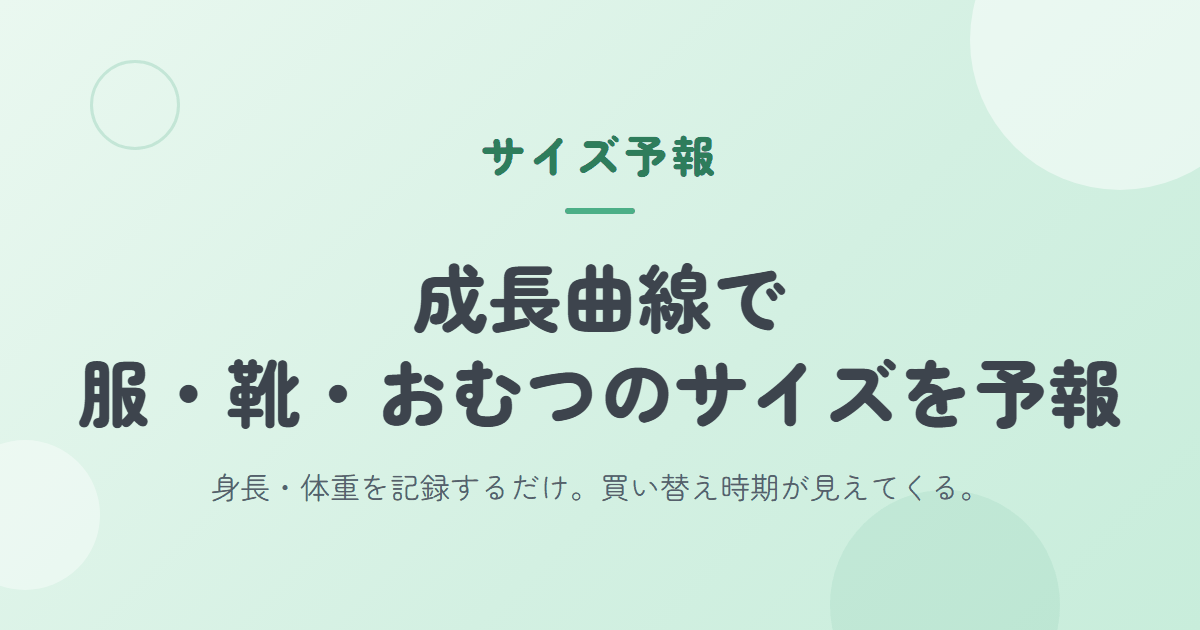
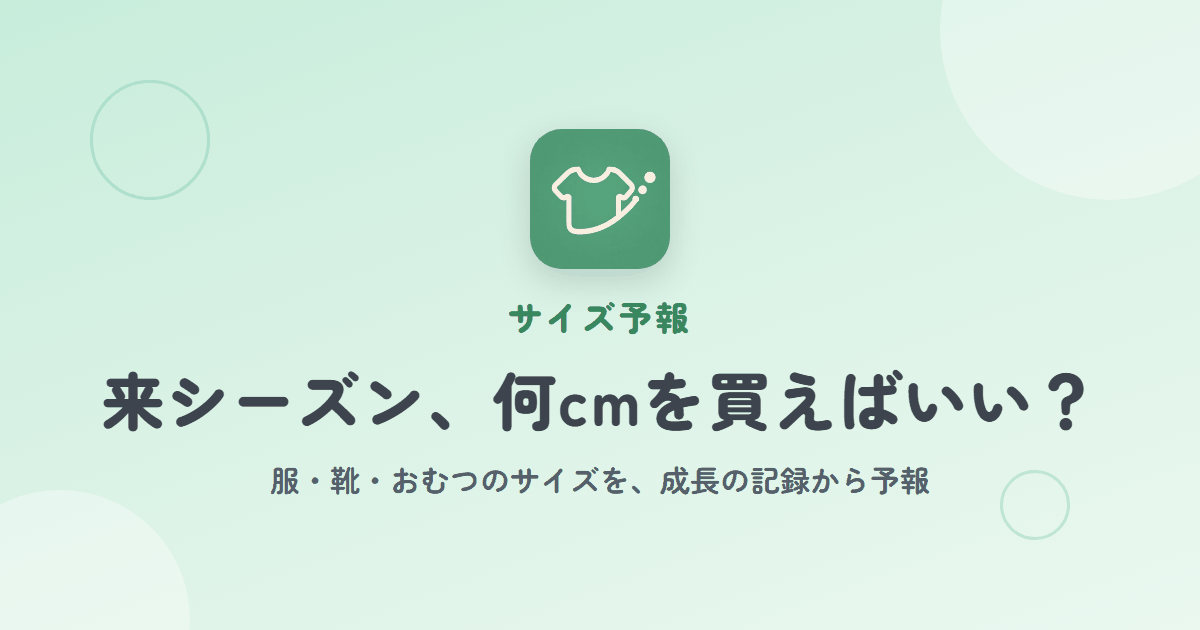
ホーム画面追加とリンク共有時の見え方を整備
- apple-touch-icon（180px）とWebマニフェストを追加し、iOS/Androidで
  ホーム画面に追加したときにアプリと同じアイコン・「サイズ予報」の名前が
  出るようにする（theme-colorでブラウザUIもミント色に）
- OGP画像を新しい訴求コピー（来シーズン、何cm？）とアプリアイコン入りで
  作り直し、生成テンプレート og-image.html を保存

diff --git a/docs/store-assets/og-image.html b/docs/store-assets/og-image.html
@@ -1,9 +1,12 @@
 <!DOCTYPE html>
+<!-- OGP画像（1200x630）の生成テンプレート。
+     書き出し：chrome headless --window-size=1200,630 --screenshot=docs/og-image.png
+     文言はサイトのヒーロー（来シーズン、何cm？）と揃える。 -->
 <html lang="ja">
 <head>
   <meta charset="UTF-8">
   <meta name="viewport" content="width=1200">
-  <title>OGP画像（1200×630）</title>
+  <title>OG画像</title>
   <link rel="preconnect" href="https://fonts.googleapis.com">
   <link rel="preconnect" href="https://fonts.gstatic.com" crossorigin>
   <link href="https://fonts.googleapis.com/css2?family=Zen+Maru+Gothic:wght@400;700;900&display=swap" rel="stylesheet">
@@ -12,43 +15,68 @@
     body {
       width: 1200px;
       height: 630px;
-      overflow: hidden;
       font-family: 'Zen Maru Gothic', sans-serif;
-      background: linear-gradient(135deg, #EAF8F0 0%, #D3F0E2 60%, #C8EDDB 100%);
       color: #3D444D;
+      background: linear-gradient(160deg, #C8EDDB 0%, #DDF3E7 55%, #EAF8F0 100%);
+      overflow: hidden;
       position: relative;
-    }
-    .circle { position: absolute; border-radius: 50%; }
-    .c1 { width: 300px; height: 300px; top: -110px; right: -70px; background: rgba(255, 255, 255, 0.5); }
-    .c2 { width: 230px; height: 230px; bottom: -90px; right: 140px; background: rgba(76, 175, 135, 0.10); }
-    .c3 { width: 90px; height: 90px; top: 60px; left: 90px; border: 3px solid rgba(76, 175, 135, 0.22); background: transparent; }
-    .c4 { width: 150px; height: 150px; bottom: 40px; left: -50px; background: rgba(255, 255, 255, 0.4); }
-    .content {
-      position: relative;
-      z-index: 1;
-      height: 100%;
       display: flex;
-      flex-direction: column;
       align-items: center;
       justify-content: center;
-      text-align: center;
     }
-    .app { font-size: 44px; font-weight: 900; color: #2E7D5B; letter-spacing: 0.08em; }
-    .line { width: 70px; height: 6px; background: #4CAF87; border-radius: 3px; margin: 22px auto 34px; }
-    h1 { font-size: 74px; font-weight: 900; line-height: 1.28; letter-spacing: 0.01em; }
-    .sub { margin-top: 26px; font-size: 30px; color: #55606B; }
+    .blob {
+      position: absolute;
+      border-radius: 50%;
+      background: rgba(255, 255, 255, 0.35);
+    }
+    .blob-1 { width: 340px; height: 340px; top: -140px; right: -80px; }
+    .blob-2 { width: 260px; height: 260px; bottom: -120px; left: -70px; }
+    .ring {
+      position: absolute;
+      border-radius: 50%;
+      border: 3px solid rgba(76, 175, 135, 0.25);
+    }
+    .ring-1 { width: 120px; height: 120px; top: 80px; left: 90px; }
+    .ring-2 { width: 70px; height: 70px; bottom: 90px; right: 130px; }
+    .content { text-align: center; position: relative; }
+    .icon {
+      width: 140px;
+      height: 140px;
+      border-radius: 32px;
+      box-shadow: 0 12px 32px rgba(61, 68, 77, 0.20);
+    }
+    .brand {
+      margin-top: 18px;
+      font-size: 34px;
+      font-weight: 900;
+      color: #38875F;
+      letter-spacing: 0.08em;
+    }
+    h1 {
+      margin-top: 14px;
+      font-size: 64px;
+      font-weight: 900;
+      line-height: 1.35;
+      letter-spacing: 0.02em;
+    }
+    .sub {
+      margin-top: 16px;
+      font-size: 30px;
+      font-weight: 700;
+      color: #55606B;
+    }
   </style>
 </head>
 <body>
-  <div class="circle c1"></div>
-  <div class="circle c2"></div>
-  <div class="circle c3"></div>
-  <div class="circle c4"></div>
+  <div class="blob blob-1"></div>
+  <div class="blob blob-2"></div>
+  <div class="ring ring-1"></div>
+  <div class="ring ring-2"></div>
   <div class="content">
-    <div class="app">サイズ予報</div>
-    <div class="line"></div>
-    <h1>成長曲線で<br>服・靴・おむつのサイズを予報</h1>
-    <p class="sub">身長・体重を記録するだけ。買い替え時期が見えてくる。</p>
+    <img class="icon" src="../icon.png" alt="">
+    <div class="brand">サイズ予報</div>
+    <h1>来シーズン、何cmを買えばいい？</h1>
+    <p class="sub">服・靴・おむつのサイズを、成長の記録から予報</p>
   </div>
 </body>
 </html>

diff --git a/docs/index.html b/docs/index.html
@@ -19,6 +19,11 @@
   <meta name="twitter:description" content="子どもの成長記録から、服・靴・おむつサイズの買い替え時期を先読み。">
   <meta name="twitter:image" content="https://miyaapps.com/sizeyoho/og-image.png">
   <link rel="icon" type="image/png" href="icon.png">
+  <!-- ホーム画面に追加したときのアイコン・名前（iOS / Android） -->
+  <link rel="apple-touch-icon" href="apple-touch-icon.png">
+  <link rel="manifest" href="site.webmanifest">
+  <meta name="apple-mobile-web-app-title" content="サイズ予報">
+  <meta name="theme-color" content="#C8EDDB">
   <link rel="canonical" href="https://miyaapps.com/sizeyoho/">
   <link rel="preconnect" href="https://fonts.googleapis.com">
   <link rel="preconnect" href="https://fonts.gstatic.com" crossorigin>

diff --git a/docs/contact.html b/docs/contact.html
@@ -6,6 +6,10 @@
   <title>お問い合わせ｜サイズ予報</title>
   <meta name="description" content="サイズ予報へのお問い合わせはこちらから。不具合報告・バックアップ・Pro版・データ削除など。">
   <link rel="icon" type="image/png" href="icon.png">
+  <link rel="apple-touch-icon" href="apple-touch-icon.png">
+  <link rel="manifest" href="site.webmanifest">
+  <meta name="apple-mobile-web-app-title" content="サイズ予報">
+  <meta name="theme-color" content="#C8EDDB">
   <link rel="preconnect" href="https://fonts.googleapis.com">
   <link rel="preconnect" href="https://fonts.gstatic.com" crossorigin>
   <link href="https://fonts.googleapis.com/css2?family=Zen+Maru+Gothic:wght@400;700&display=swap" rel="stylesheet">

diff --git a/docs/privacy.html b/docs/privacy.html
@@ -5,6 +5,10 @@
   <meta name="viewport" content="width=device-width, initial-scale=1">
   <title>プライバシーポリシー｜サイズ予報</title>
   <link rel="icon" type="image/png" href="icon.png">
+  <link rel="apple-touch-icon" href="apple-touch-icon.png">
+  <link rel="manifest" href="site.webmanifest">
+  <meta name="apple-mobile-web-app-title" content="サイズ予報">
+  <meta name="theme-color" content="#C8EDDB">
   <link rel="preconnect" href="https://fonts.googleapis.com">
   <link rel="preconnect" href="https://fonts.gstatic.com" crossorigin>
   <link href="https://fonts.googleapis.com/css2?family=Zen+Maru+Gothic:wght@400;700&display=swap" rel="stylesheet">
